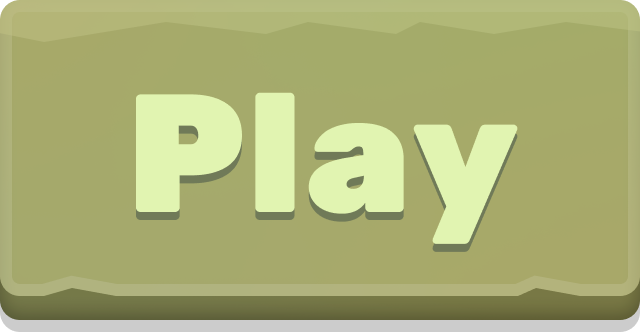
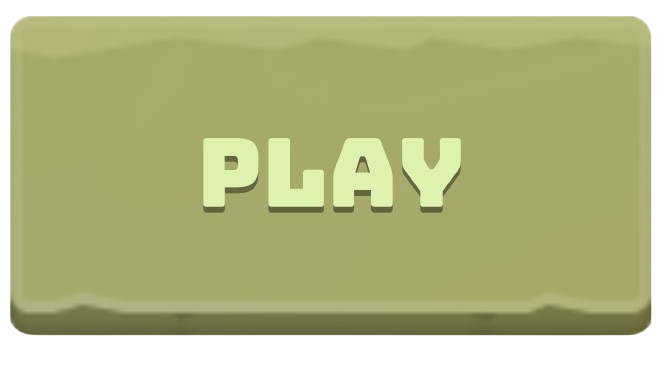
ajout nouvelles images de bouton dans le menu

diff --git a/Jeux/Vue/MenuPanel.java b/Jeux/Vue/MenuPanel.java
@@ -16,10 +16,10 @@ public class MenuPanel extends JPanel {
     public MenuPanel(int xpos, int ypos, int width, int height) {
         logoIcon = new ImageIcon(getClass().getResource("/assets/Logo.png"));
         
-        playButton = new MenuButton(170, 95, xpos - 115, ypos + 10, "../assets/PlayDefault.png", "../assets/PlayHover.png");
-        newGame = new MenuButton(180, 110, xpos + 100, ypos + 12, "../assets/NewGameDefault.png", "../assets/NewGameHover.png");
-        settings = new MenuButton(180, 110, xpos - 113, ypos + 120, "../assets/SettingDefault.png", "../assets/SettingHover.png");
-        exit = new MenuButton(180, 110, xpos + 100, ypos + 120, "../assets/SettingDefault.png", "../assets/SettingHover.png");
+        playButton = new MenuButton(180, 110, xpos - 115, ypos + 10, "../assets/PlayDefault.png", "../assets/PlayHover.png");
+        newGame = new MenuButton(180, 110, xpos + 100, ypos + 10, "../assets/NewGameDefault.png", "../assets/NewGameHover.png");
+        settings = new MenuButton(180, 110, xpos - 115, ypos + 120, "../assets/SettingDefault.png", "../assets/SettingHover.png");
+        exit = new MenuButton(180, 110, xpos + 100, ypos + 120, "../assets/QuitDefault.png", "../assets/QuitHover.png");
 
         setPreferredSize(new Dimension(width, height));
         setBackground(Color.DARK_GRAY);
